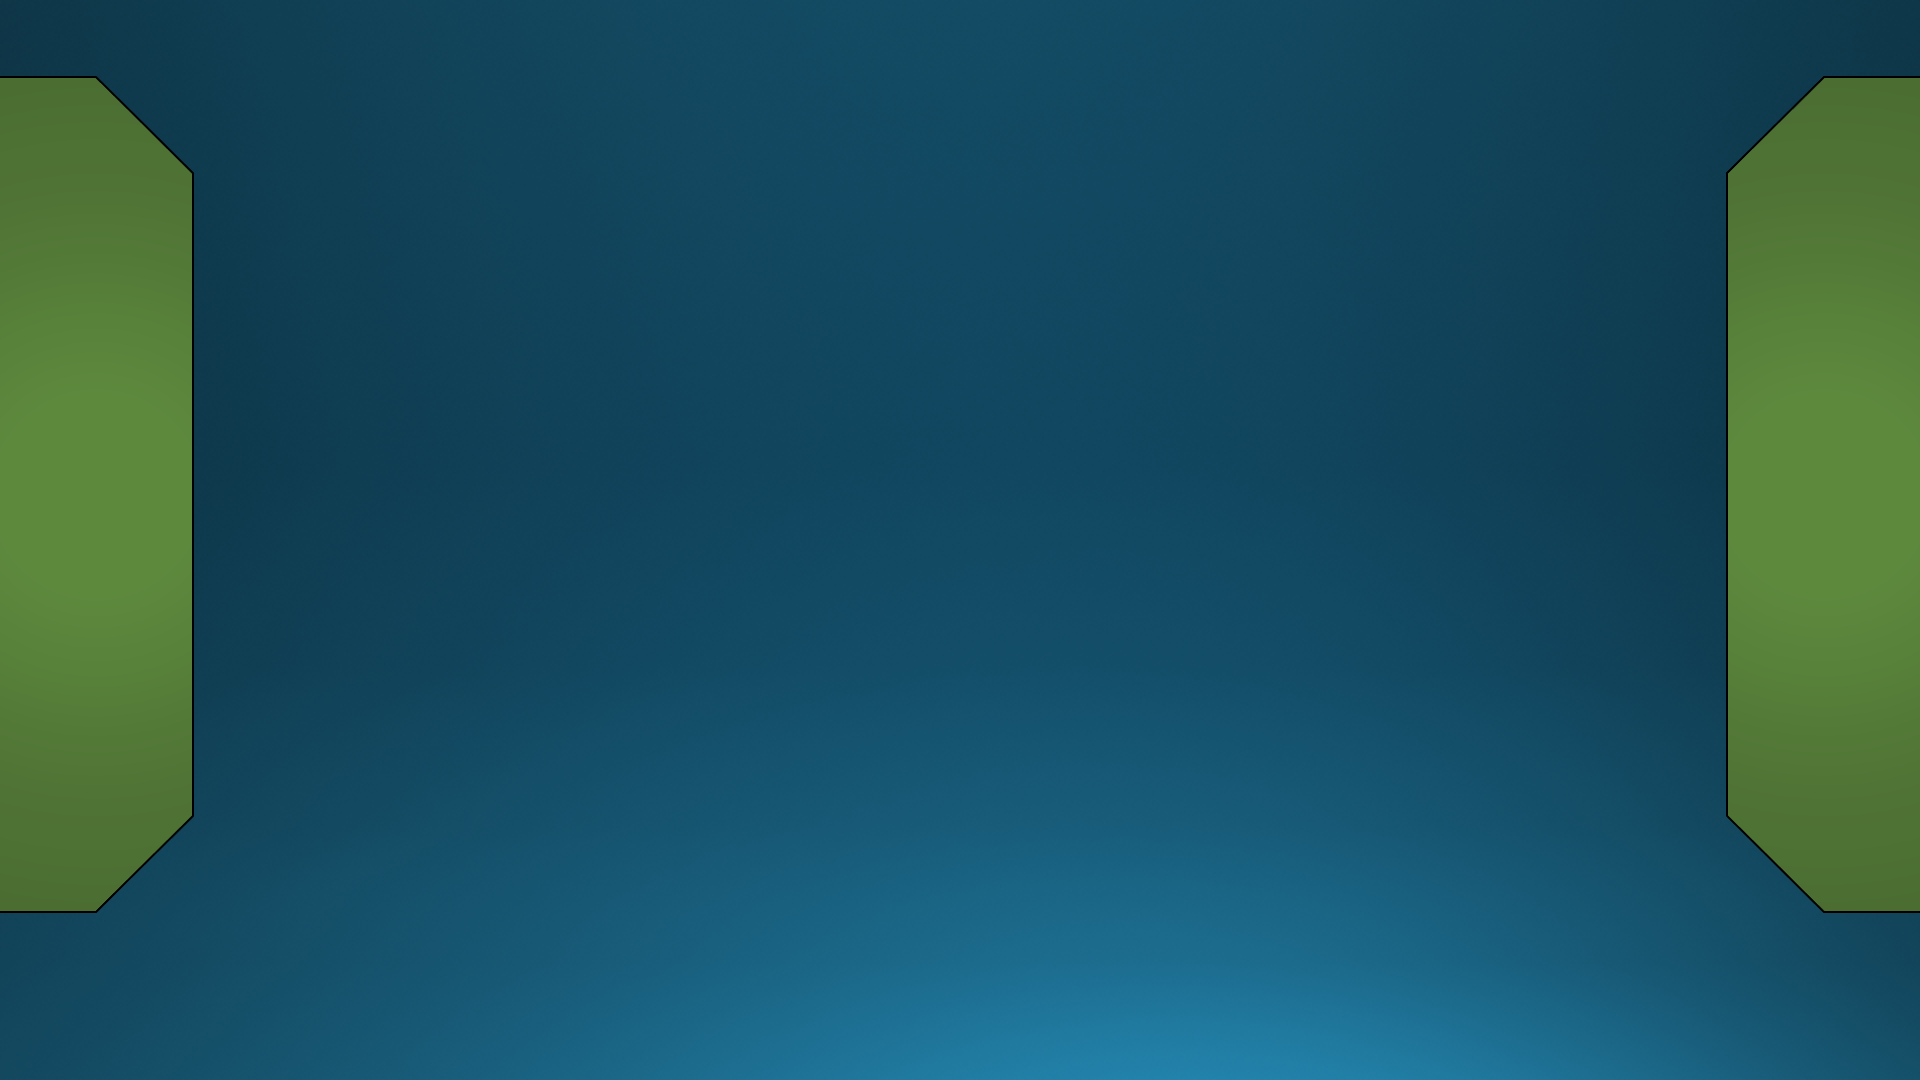
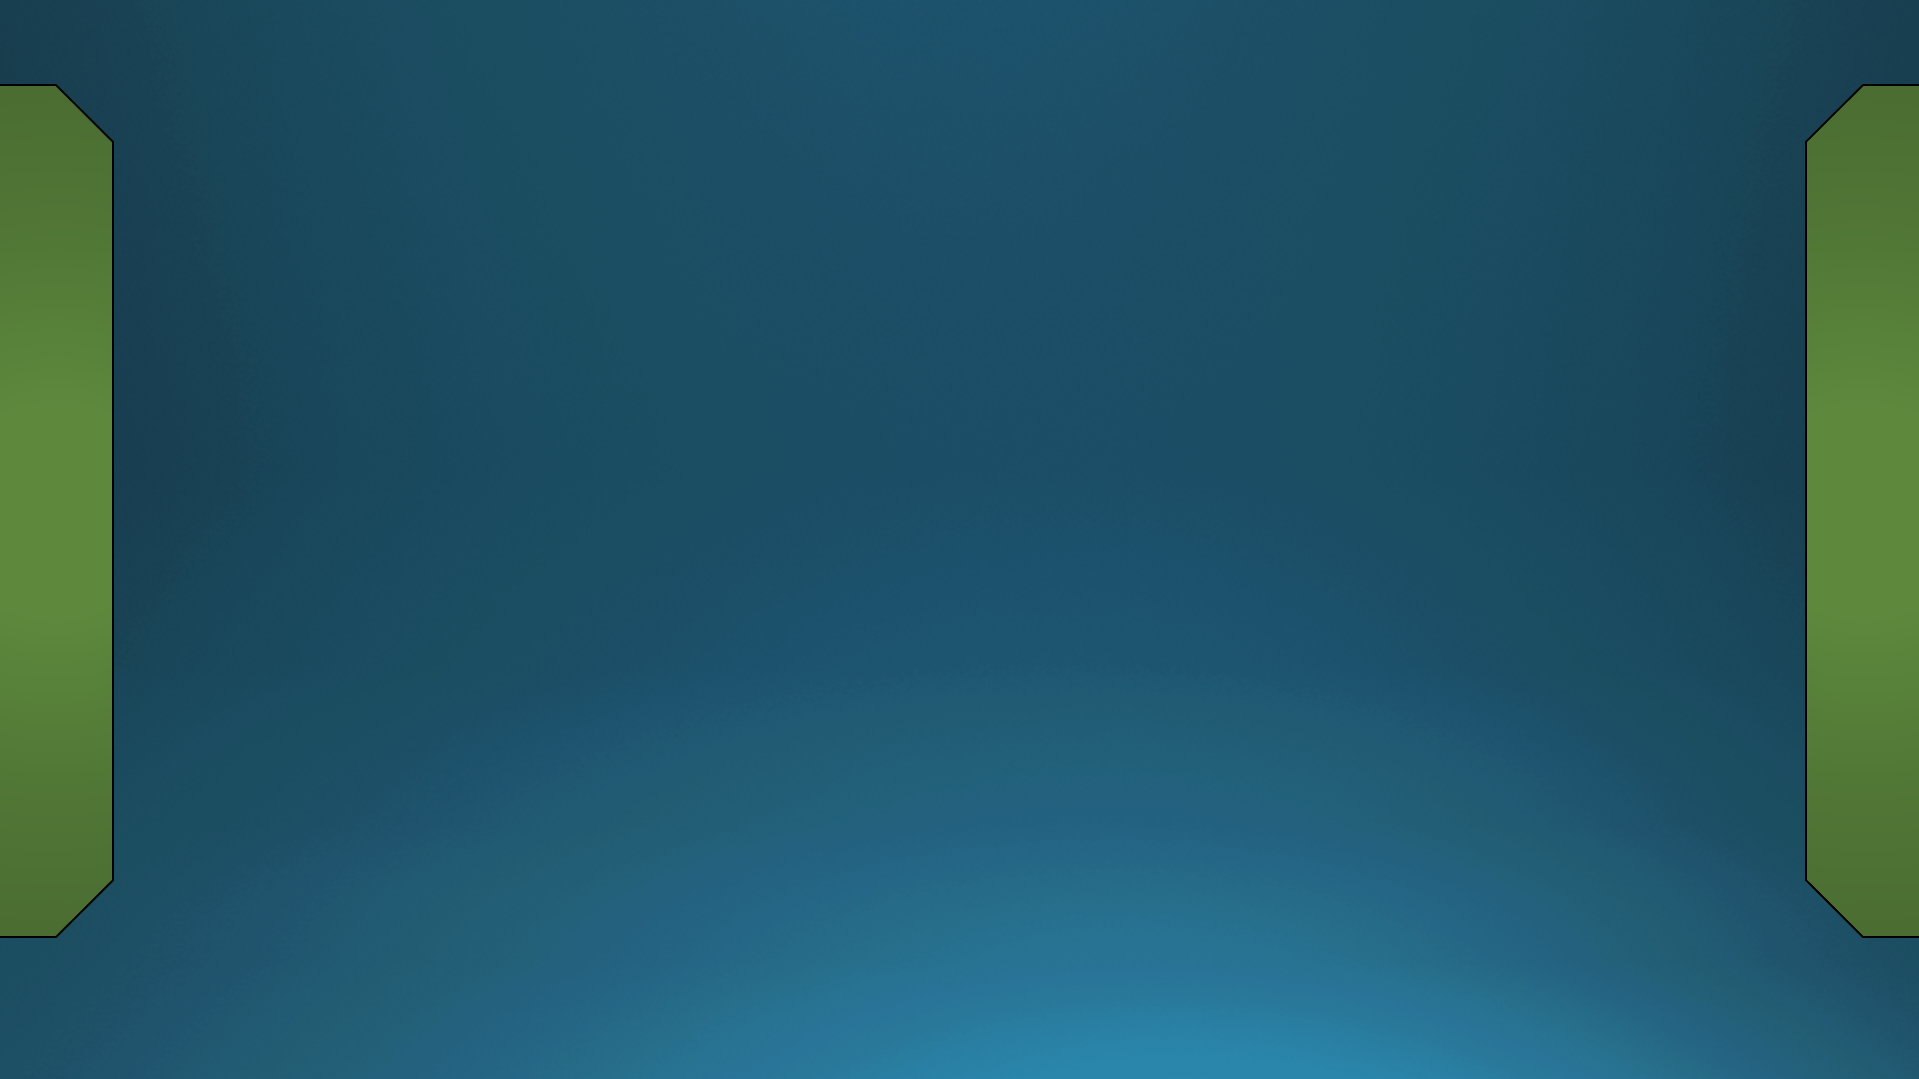
Add files via upload

Changed region(s): [[0.0, 0.0612, 0.123, 0.8869], [0.8916, 0.0612, 1.0, 0.8869]]

diff --git a/design.css b/design.css
@@ -1,0 +1,52 @@
+html {scroll-behavior: smooth;}
+
+body {background-image: url('Bilder/Overlay.png');
+  background-repeat: no-repeat;
+  background-attachment: fixed;
+  background-size: cover;}
+
+body nav{position: sticky;top: 0;}
+
+nav {background-image: url('Bilder/Bild Menu.png');
+  background-repeat: no-repeat; background-size: cover; z-index: 2;
+  text-align:center; padding-top: 1px; padding-bottom: 1px;}
+
+Nav a {text-decoration: none;color: Black; font-size: 25px;}
+
+nav p {display: inline-block;}
+
+h1 {text-align: center; font-size: 45px;}
+h2,h3 {text-align:center;font-size: 35px}
+
+.Aufzählung {padding-left: 36%;font-size: 25px}
+.TEXT {padding-left: 14%;padding-right:14%;hyphens: auto;
+	text-align: justify;font-size: 30px}
+.BOX1 {float: left; padding-left: 8%; width: 25%;
+  box-sizing: border-box; z-index: 2;font-size: 25px;}
+.BOX2 {box-sizing: border-box; padding-top: 1px;
+  z-index: 2; font-size: 25px;}
+
+.Bild {
+  display: flex;
+  justify-content: center;
+  align-items: center;
+  z-index: -1}
+.Menu {list-style: none; display: inline-block; padding-right: 20px;}
+
+.Links{display: block;
+  position: sticky; Bottom: 0; background-repeat: no-repeat;
+  background-attachment: fixed;
+  background-size: cover; z-index: -1;
+  float: left;}
+.Rechts{display: block;
+  position: sticky; Bottom: 0; background-repeat: no-repeat;
+  background-attachment: fixed;
+  background-size: cover; z-index: -1;
+  float: right;}
+
+
+footer {
+  position: sticky; bottom: 0; background-repeat: no-repeat;
+  background-attachment: fixed;
+  background-size: cover; z-index: 0;
+  height: ;}
